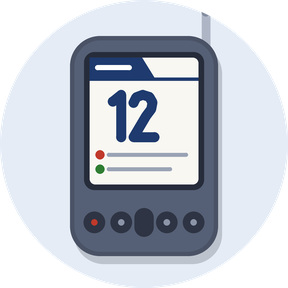
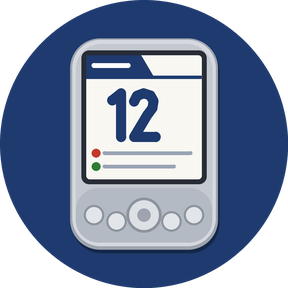
Иконка в духе T3: серебристый корпус, большой экран, круглые кнопки, синий фон
Claude-Session: https://claude.ai/code/session_01LYtUYih3KvSqmjL2Wgu6k4

diff --git a/docs/icon-gen.py b/docs/icon-gen.py
@@ -3,47 +3,67 @@
 import sys
 from PIL import Image, ImageDraw
 
-BG = "#E6ECF5"
+BG = "#1E3A6E"
 NAVY = "#1E3A6E"
 INK = "#1B1F2A"
 
 # Фигуры в координатах 108x108
 shapes = [
-    # стилус, торчит из-за корпуса справа сверху
-    ("line", [(69.5, 19.5), (69.5, 30)], 2.2, "#AEB6C6"),
-    ("line", [(69.5, 19.5), (69.5, 21)], 2.2, "#7E879A"),
-    # тень корпуса
-    ("rrect", (36.5, 29, 37, 55, 7.5), "#33" + INK[1:]),
-    # корпус
-    ("rrect", (35.5, 27, 37, 55, 7.5), "#4A5366"),
-    ("rrect", (36.6, 28.1, 34.8, 52.8, 6.5), "#556076"),
-    # рамка экрана и экран
-    ("rrect", (39, 31, 30, 34.5, 2.6), "#262C3A"),
-    ("rrect", (40.4, 32.4, 27.2, 31.7, 1.4), "#F8F7F2"),
-    # вкладка с датой (косой край) и линия под ней
-    ("poly", [(40.4, 32.4), (53.5, 32.4), (56.6, 37.4), (40.4, 37.4)], NAVY),
-    ("rect", (40.4, 37.4, 27.2, 0.8), NAVY),
-    ("line", [(42.4, 34.9), (50.3, 34.9)], 1.3, "#FFFFFF"),
-    # большое число "12"
-    ("line", [(46.2, 43.4), (48.3, 41.7), (48.3, 52.3)], 2.5, NAVY),
-    ("line", [(51.4, 43.7), (52.1, 42.3), (53.7, 41.7), (55.3, 42.2), (56.1, 43.6), (55.8, 45.3),
-              (54.5, 47.0), (51.4, 52.3), (56.6, 52.3)], 2.5, NAVY),
-    # события: звонок (красный) и задача (зелёный)
-    ("circle", (43.0, 56.7, 1.15), "#C0392B"),
-    ("line", [(45.2, 56.7), (64.5, 56.7)], 1.0, "#9AA3B5"),
-    ("circle", (43.0, 60.3, 1.15), "#2E7D32"),
-    ("line", [(45.2, 60.3), (60.5, 60.3)], 1.0, "#9AA3B5"),
-    # кнопки
-    ("circle", (41.6, 73.6, 2.7), "#2E3443"),
-    ("circle", (48.3, 73.6, 2.7), "#2E3443"),
-    ("circle", (59.7, 73.6, 2.7), "#2E3443"),
-    ("circle", (66.4, 73.6, 2.7), "#2E3443"),
-    ("rrect", (51.6, 70.0, 4.8, 7.2, 2.4), "#2E3443"),
-    ("circle", (41.6, 73.6, 0.8), "#C0392B"),
-    ("circle", (48.3, 73.6, 0.8), "#8C95A8"),
-    ("circle", (59.7, 73.6, 0.8), "#8C95A8"),
-    ("circle", (66.4, 73.6, 0.8), "#8C95A8"),
+    # корпус: серебристый металл, светлая окантовка, лёгкая тень снизу
+    ("rrect", (33.4, 25.0, 42, 60, 8.5), "#55000000"),
+    ("rrect", (33, 24, 42, 60, 8.5), "#9EA4AE"),
+    ("rrect", (33.6, 24.4, 40.8, 58.6, 8), "#D5D9DF"),
+    ("rrect", (34.6, 25.6, 38.8, 56.4, 7.2), "#C4C9D0"),
+    # нижняя панель кнопок чуть темнее
+    ("rrect", (34.6, 66.5, 38.8, 15.5, 6.5), "#B4BAC3"),
+    # большой экран в тёмной рамке
+    ("rrect", (36.2, 27.4, 35.6, 38, 2.2), "#272C37"),
+    ("rrect", (37.6, 28.8, 32.8, 35.2, 1.0), "#F8F7F2"),
+    # вкладка заголовка с косым краем и линия под ней
+    ("poly", [(37.6, 28.8), (53.2, 28.8), (56.6, 34.6), (37.6, 34.6)], NAVY),
+    ("rect", (37.6, 34.6, 32.8, 0.9), NAVY),
+    ("line", [(39.8, 31.7), (49.5, 31.7)], 1.4, "#FFFFFF"),
+    # крупное число "12"
+    ("line", [(45.0, 41.6), (47.5, 39.6), (47.5, 52.0)], 2.9, NAVY),
+    ("line", [(51.2, 41.9), (52.0, 40.3), (53.9, 39.6), (55.8, 40.2), (56.7, 41.8), (56.4, 43.8),
+              (54.9, 45.8), (51.2, 52.0), (57.3, 52.0)], 2.9, NAVY),
+    # события: звонок и задача
+    ("circle", (40.4, 56.6, 1.25), "#C0392B"),
+    ("line", [(42.8, 56.6), (67.2, 56.6)], 1.1, "#9AA3B5"),
+    ("circle", (40.4, 60.4, 1.25), "#2E7D32"),
+    ("line", [(42.8, 60.4), (62.5, 60.4)], 1.1, "#9AA3B5"),
+    # 5-позиционный джойстик по центру
+    ("circle", (54, 74.2, 5.0), "#8E949E"),
+    ("circle", (54, 74.2, 4.2), "#DDE1E6"),
+    ("circle", (54, 74.2, 1.9), "#9EA4AE"),
+    # четыре круглые кнопки приложений
+    ("circle", (39.8, 74.2, 2.9), "#8E949E"),
+    ("circle", (39.8, 74.2, 2.3), "#E2E5EA"),
+    ("circle", (46.2, 76.0, 2.9), "#8E949E"),
+    ("circle", (46.2, 76.0, 2.3), "#E2E5EA"),
+    ("circle", (61.8, 76.0, 2.9), "#8E949E"),
+    ("circle", (61.8, 76.0, 2.3), "#E2E5EA"),
+    ("circle", (68.2, 74.2, 2.9), "#8E949E"),
+    ("circle", (68.2, 74.2, 2.3), "#E2E5EA"),
 ]
+
+
+# Уменьшаем рисунок вокруг центра, чтобы углы не срезались круглой маской лаунчера
+K = 0.88
+def _s(v): return 54 + (v - 54) * K
+def _scale(sh):
+    kind = sh[0]
+    if kind in ("rrect", "rect"):
+        x, y, w, h, *r = sh[1]
+        return (kind, (_s(x), _s(y), w * K, h * K, *[q * K for q in r]), *sh[2:])
+    if kind == "circle":
+        cx, cy, r = sh[1]
+        return (kind, (_s(cx), _s(cy), r * K), *sh[2:])
+    if kind == "poly":
+        return (kind, [(_s(x), _s(y)) for x, y in sh[1]], *sh[2:])
+    if kind == "line":
+        return (kind, [(_s(x), _s(y)) for x, y in sh[1]], sh[2] * K, sh[3])
+shapes = [_scale(s) for s in shapes]
 
 
 def hex_rgba(h):
